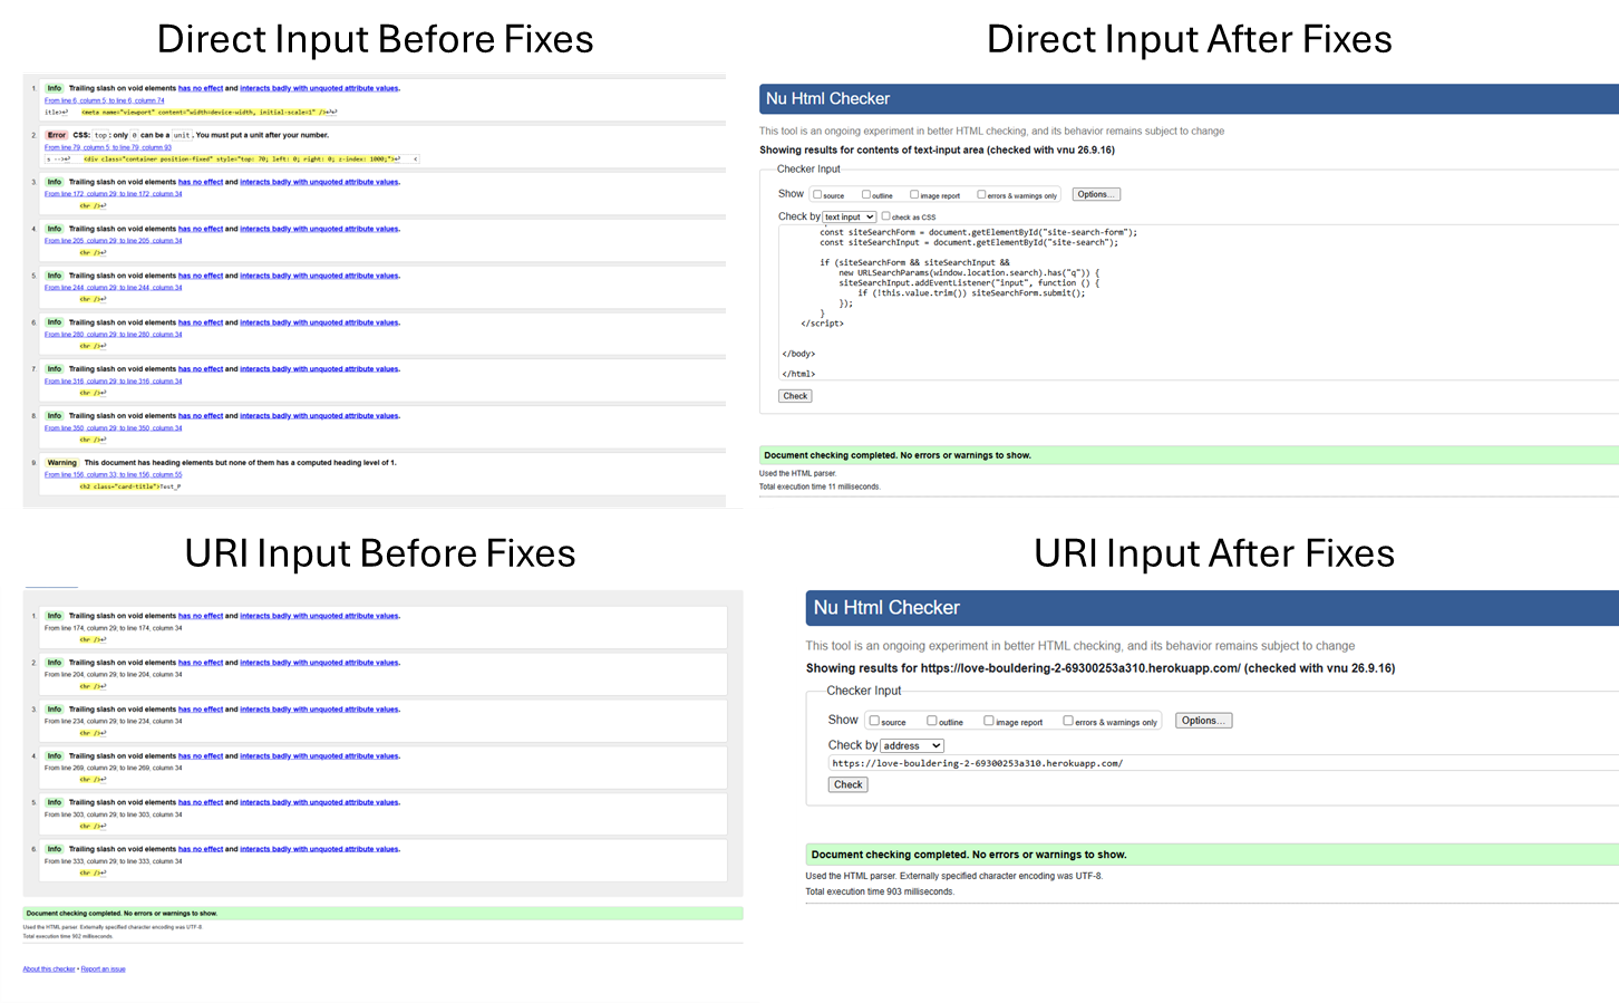
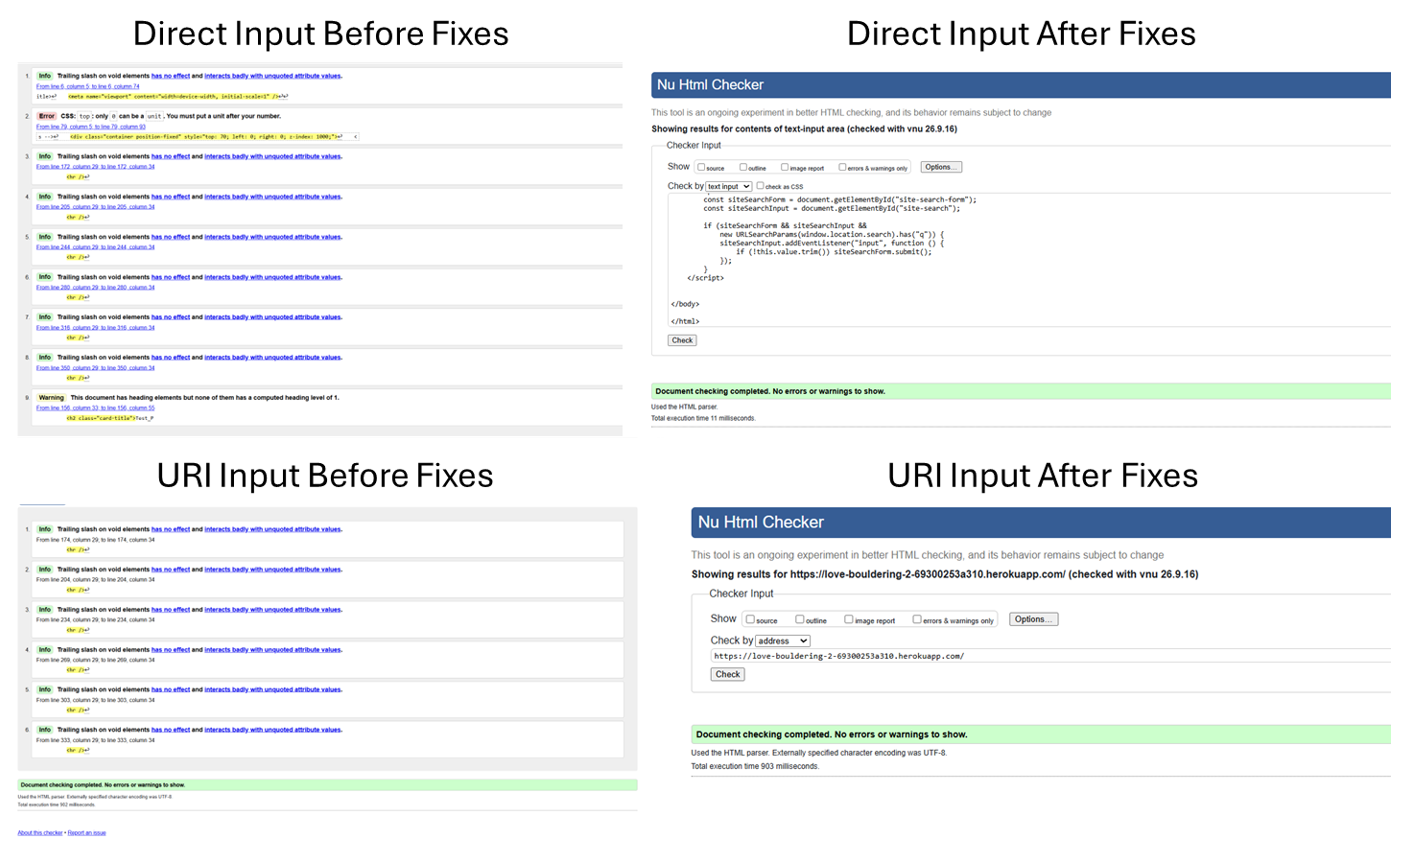
Remove trailing slashes from input elements in login.html

diff --git a/templates/account/logout.html b/templates/account/logout.html
@@ -19,7 +19,7 @@
             <form method="post" action="{% url 'account_logout' %}">
                 {% csrf_token %}
                 {% if redirect_field_value %}
-                <input type="hidden" name="{{ redirect_field_name }}" value="{{ redirect_field_value }}" />
+                <input type="hidden" name="{{ redirect_field_name }}" value="{{ redirect_field_value }}">
                 {% endif %}
                 <button class="btn btn-signup right" type="submit">{% trans 'Sign Out' %}</button>
             </form>

diff --git a/TESTING.md b/TESTING.md
@@ -63,3 +63,87 @@ Accessibility could be improved by changing background, foreground and text colo
 The deployed BoulderWiki website was tested using the [W3C HTML Validator](https://validator.w3.org/).
 
 For the validation testing, HTML5 code was copied from the page sources of the pages on the deployed site and pasted into the validators direct-input field. The URI link was also pasted into the validator for comparison. 
+
+### Homepage
+
+![Homepage validations](/documentation/testing/html-css-js-validation/html-validation/homepage.png)
+
+The error message in the top-left image were fixed by appending px to ```style="top: 70```. 
+
+A h1 tag was added to the top of the Homepage.
+
+The info messages didn't matter that much but were resolved by removing trailing slashes from hr and meta tags. 
+
+### About Page
+
+![About Page Validation](/documentation/testing/html-css-js-validation/html-validation/about.png)
+
+No errors returned
+
+### Create Article Page
+
+![Create Article Page Validation](/documentation/testing/html-css-js-validation/html-validation/create-article.png)
+
+The errors and warnings shown in the image above were being caused by the Summernote rich text field. 
+
+These errors were fixed by adding the HTML5SummernoteWidget class in article/forms.py and adding some properties and methods to the class. The code below was implemented in the article/forms.py file to achieve this:
+
+```python
+class HTML5SummernoteWidget(SummernoteWidget):
+    def render(self, name, value, attrs=None, **kwargs):
+        rendered = super().render(name, value, attrs, **kwargs)
+        rendered = rendered.replace(
+            '<style>\niframe.note-fullscreen {\n'
+            '  position: fixed;\n'
+            '  top: 0;\n'
+            '  left: 0;\n'
+            '  width: 100vw!important;\n'
+            '  height: 100vh!important;\n'
+            '  z-index: 4000;\n'
+            '}\n</style>\n',
+            '',
+        )
+        rendered = re.sub(
+            r'<div class="summernote-div"\s+class="([^"]*)"',
+            r'<div class="summernote-div \1"',
+            rendered,
+        )
+        rendered = re.sub(
+            r'<div\b[^>]*class="([^"]*summernote-div[^"]*)"[^>]*>',
+            r'<div class="\1">',
+            rendered,
+        )
+        rendered = rendered.replace(' frameborder="0"', '')
+        rendered = rendered.replace('hidden="true"', 'hidden')
+        return re.sub(
+            r'(<(?:input|img|hr|meta|link|br|area|base|col|embed|param|source|track|wbr)\b[^>]*?)\s*/>',
+            r'\1>',
+            rendered,
+        )
+```
+
+After implementing the code above, the errors in the validator disappeared with the exception of the info message for the URI input. The remaining info message was not addressed because trying to fix it wasn't that necessary. 
+
+###  Manage Articles Page
+
+![Manage Articles Page Validation](/documentation/testing/html-css-js-validation/html-validation/manage-articles.png)
+
+The warning message that occured from URI input was fixed by adding h1 tags to the login.html, logout.html and signup.html files as top-level headings. 
+
+h2 tags were replaced by h1 tags.  
+
+###  Categories Page
+
+![Categories Page Validation](/documentation/testing/html-css-js-validation/html-validation/categories.png)
+
+No errors returned
+
+### Suggestions Page
+
+![Suggestions Page Validation](/documentation/testing/html-css-js-validation/html-validation/suggestions.png)
+
+No errors returned
+
+###  Page
+
+![Page]()
